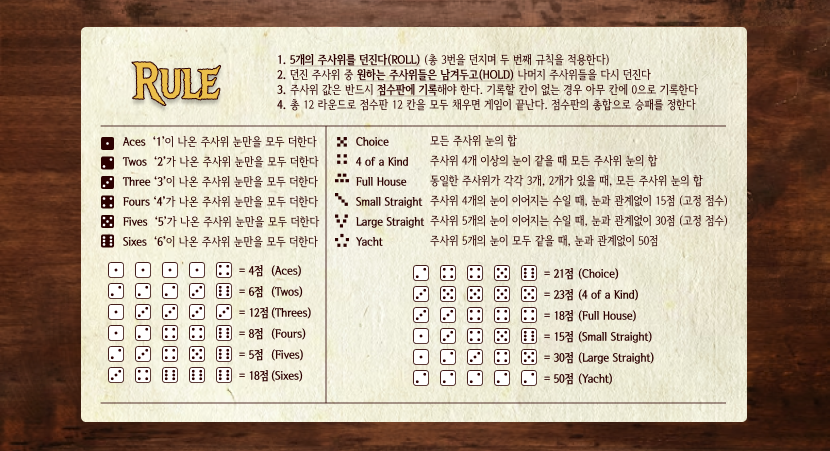
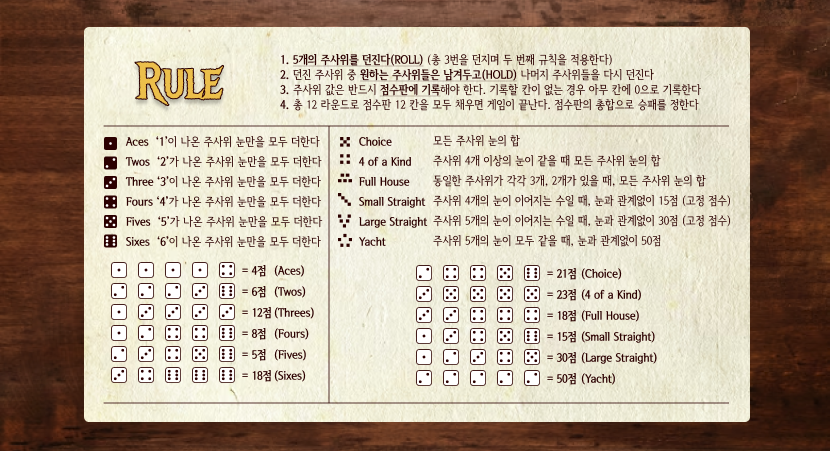
이나경 튜토리얼 완료

diff --git a/YachtDicePrototype2/TUTORIAL2.cpp b/YachtDicePrototype2/TUTORIAL2.cpp
@@ -65,7 +65,7 @@ void TUTORIAL2::OnInitialUpdate()
 	CFormView::OnInitialUpdate();
 
 	// TODO: Add your specialized code here and/or call the base class
-	back.Load(_T("BACKGROUND.png"));//이미지 로드
+	back.Load(_T("TUTORIAL_HOW_TO_PLAY.png"));//이미지 로드
 	m_previous_btn.LoadBitmaps(IDB_PREVIOUS, NULL, NULL, NULL); // 첫 번째 인자에는 추가한 비트맵 ID명
 	m_previous_btn.SizeToContent(); // 이미지 크기에 버튼 크기를 맞춰주는 작업
 }
